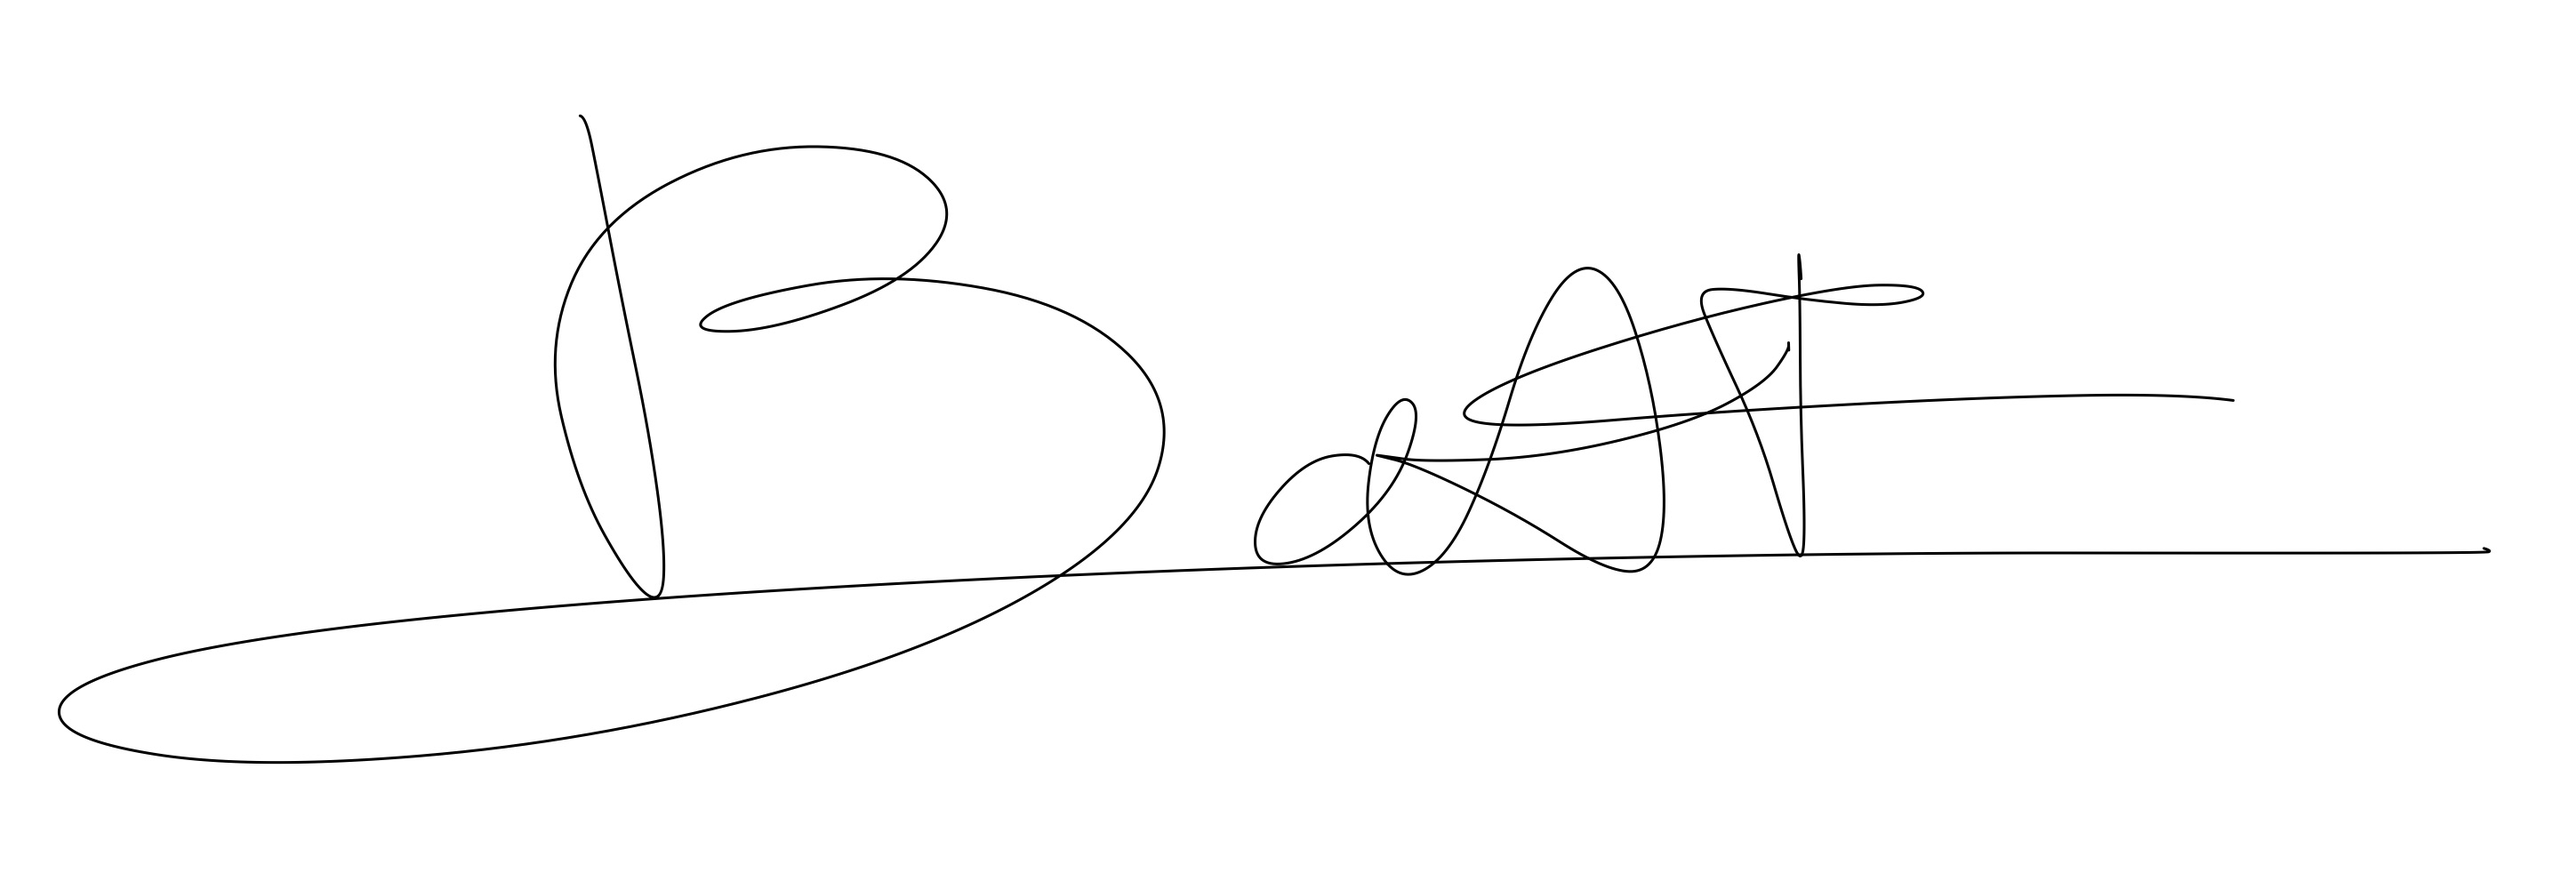
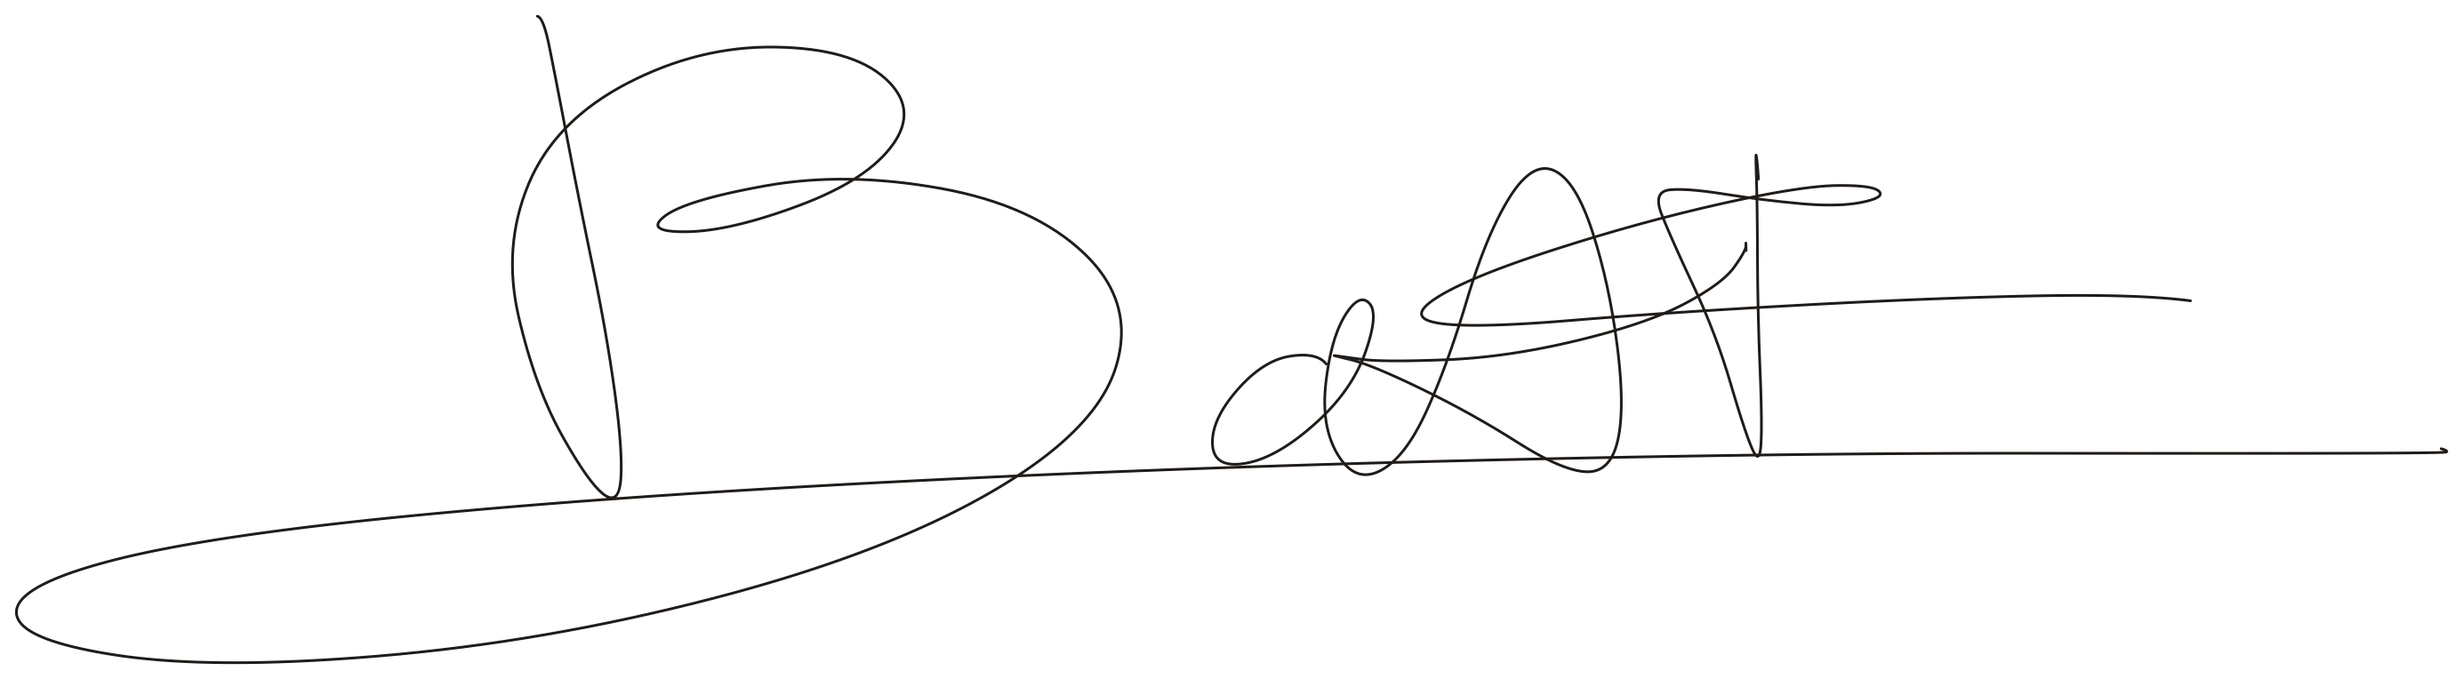
fix(design): signature en PNG transparent (traits ink), fini la box blanche
Recoloree en couleur systeme via PIL (fond blanc -> transparent, traits -> ink),
recadree au plus pres. Plus de dependance au mix-blend-mode.

diff --git a/src/app/page.tsx b/src/app/page.tsx
@@ -445,9 +445,9 @@ export default function Home() {
                 <Image
                   src="/signature.png"
                   alt="Signature de Boris Hierso Alphandéry"
-                  width={420}
-                  height={145}
-                  className="sig h-16 w-auto"
+                  width={2770}
+                  height={764}
+                  className="h-16 w-auto opacity-80"
                 />
               </div>
             </div>
